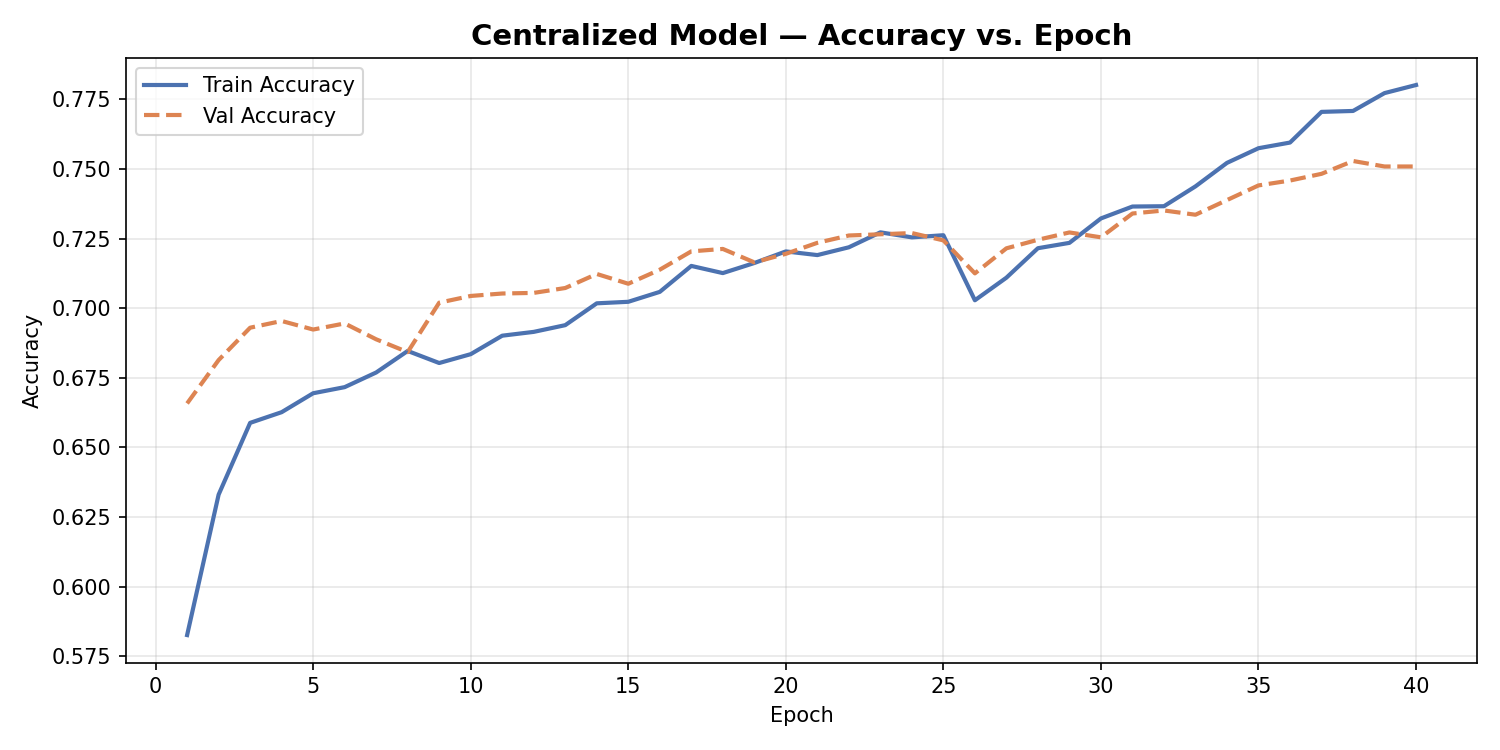
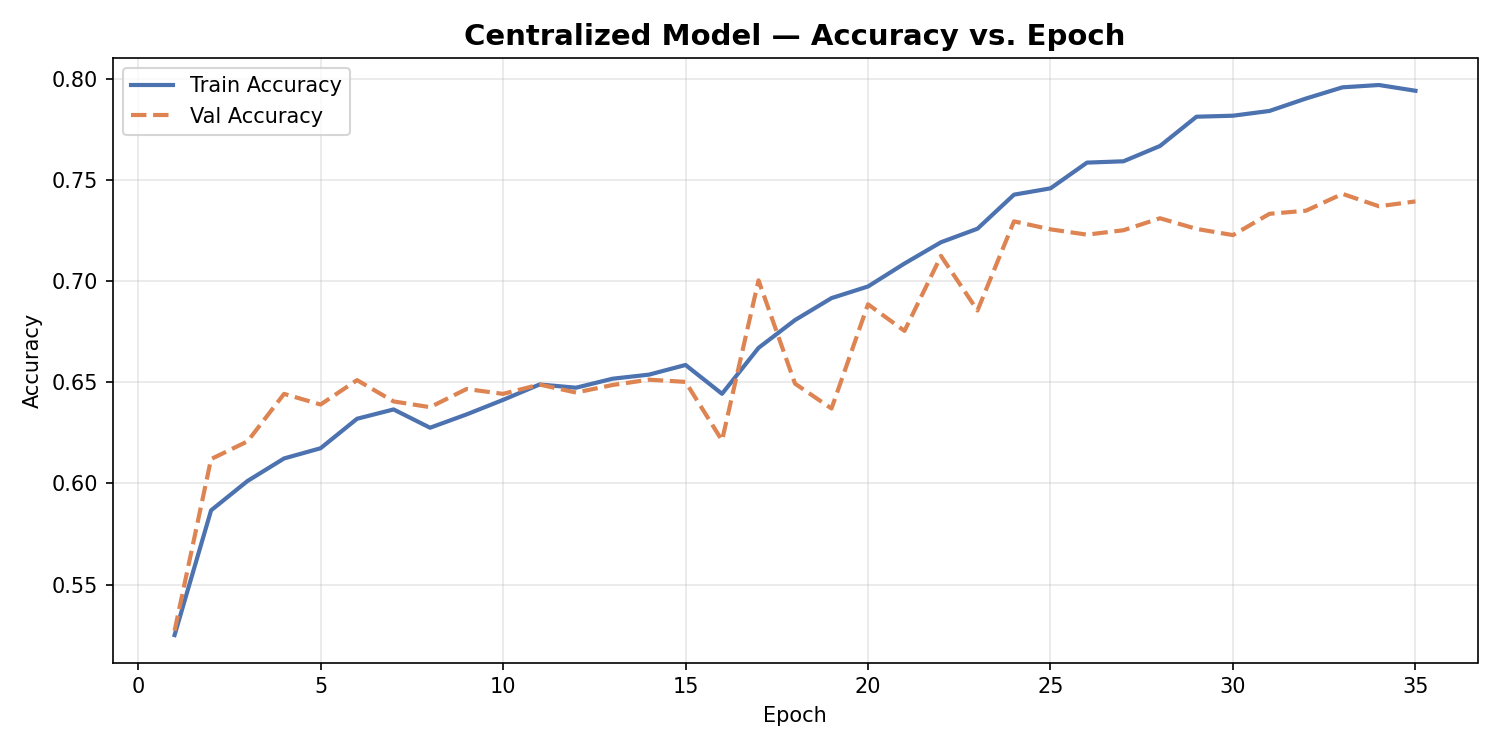
feat(model): integrate Categorical Focal Loss and 256x256 resolution to optimize precision, F1, and accuracy

diff --git a/train_local.py b/train_local.py
@@ -94,7 +94,7 @@ GLOBAL_TEST_CSV = "dataset/partitions/global_test.csv"
 
 CLASS_NAMES = ["MEL", "NV", "BKL", "BCC"]
 NUM_CLASSES = 4
-IMAGE_SIZE  = 224
+IMAGE_SIZE  = 256
 BATCH_SIZE  = 16    # identical to FL pipeline
 SEED        = 42
 
@@ -500,10 +500,7 @@ def train(args):
     # ----------------------------------------
     y_train_ints = np.array([CLASS_NAMES.index(l) for l in train_df["label"]])
     y_train_oh = tf.keras.utils.to_categorical(y_train_ints, num_classes=NUM_CLASSES)
-    class_weights = get_class_weights(y_train_oh, class_labels=list(range(NUM_CLASSES)), max_weight_cap=2.5, num_classes=NUM_CLASSES)
-    print(f"\n[2/4] Training Mode: ASYMMETRIC Class Weights (Majority=1.0, Minority boosted up to 2.5)")
-    for k, v in sorted(class_weights.items()):
-        print(f"    {CLASS_NAMES[k]:<8}: {v:.3f}")
+    print(f"\n[2/4] Training Mode: CATEGORICAL FOCAL LOSS (gamma=2.0, alpha=0.25) — Dynamic Hard Example Mining")
 
     # ----------------------------------------
     # FIX 3: BUILD MODEL (identical to FL)
@@ -550,6 +547,7 @@ def train(args):
             monitor="val_auc",
             mode="max",
             save_best_only=True,
+            save_weights_only=True,
             verbose=1,
         ),
         tf.keras.callbacks.EarlyStopping(
@@ -571,12 +569,13 @@ def train(args):
             monitor="val_auc",
             mode="max",
             save_best_only=True,
+            save_weights_only=True,
             verbose=1,
         ),
         tf.keras.callbacks.EarlyStopping(
             monitor="val_auc",
             mode="max",
-            patience=15,
+            patience=12,
             restore_best_weights=True,
             verbose=1,
         ),
@@ -603,7 +602,7 @@ def train(args):
         train_gen,
         validation_data=val_gen,
         epochs=args.epochs,
-        class_weight=class_weights,
+        class_weight=None,
         callbacks=callbacks_p1,
         workers=4,
         max_queue_size=10,
@@ -629,7 +628,7 @@ def train(args):
             train_gen,
             validation_data=val_gen,
             epochs=args.finetune_epochs,
-            class_weight=class_weights,
+            class_weight=None,
             callbacks=callbacks_p2,
             workers=4,
             max_queue_size=10,
@@ -663,9 +662,9 @@ def train(args):
         serializable["report"] = test_results["report"]
         json.dump(serializable, f, indent=2)
 
-    # Save final model
-    final_path = os.path.join(CHECKPOINT_DIR, "centralized_final.keras")
-    model.save(final_path)
+    # Save final model weights
+    final_path = os.path.join(CHECKPOINT_DIR, "centralized_final_weights.h5")
+    model.save_weights(final_path)
 
     print(f"\n{'='*50}")
     print(f"  TRAINING COMPLETE")

diff --git a/models/model.py b/models/model.py
@@ -191,11 +191,18 @@ class CategoricalFocalLoss(tf.keras.losses.Loss):
         return config
 
 
-def get_loss_function(label_smoothing=0.02):
+def get_loss_function(use_focal_loss=True, alpha=0.25, gamma=2.0, label_smoothing=0.02, num_classes=4):
     """
-    Returns CategoricalCrossentropy with mild label smoothing (0.02)
-    to maximize overall top-1 accuracy while maintaining high ROC-AUC.
+    Returns CategoricalFocalLoss (alpha=0.25, gamma=2.0) by default to eliminate
+    false positive trade-offs and maximize overall Precision, F1-Score, and Accuracy.
     """
+    if use_focal_loss:
+        return CategoricalFocalLoss(
+            alpha=alpha,
+            gamma=gamma,
+            label_smoothing=label_smoothing,
+            num_classes=num_classes,
+        )
     return tf.keras.losses.CategoricalCrossentropy(
         label_smoothing=label_smoothing,
         from_logits=False,

diff --git a/preprocessing/dataset_loader.py b/preprocessing/dataset_loader.py
@@ -22,7 +22,7 @@ from models.model import get_preprocess_input
 # CONFIGURATION
 # ============================================
 
-IMAGE_SIZE = 224
+IMAGE_SIZE = 256
 BATCH_SIZE = 16
 
 CLASS_NAMES = [
